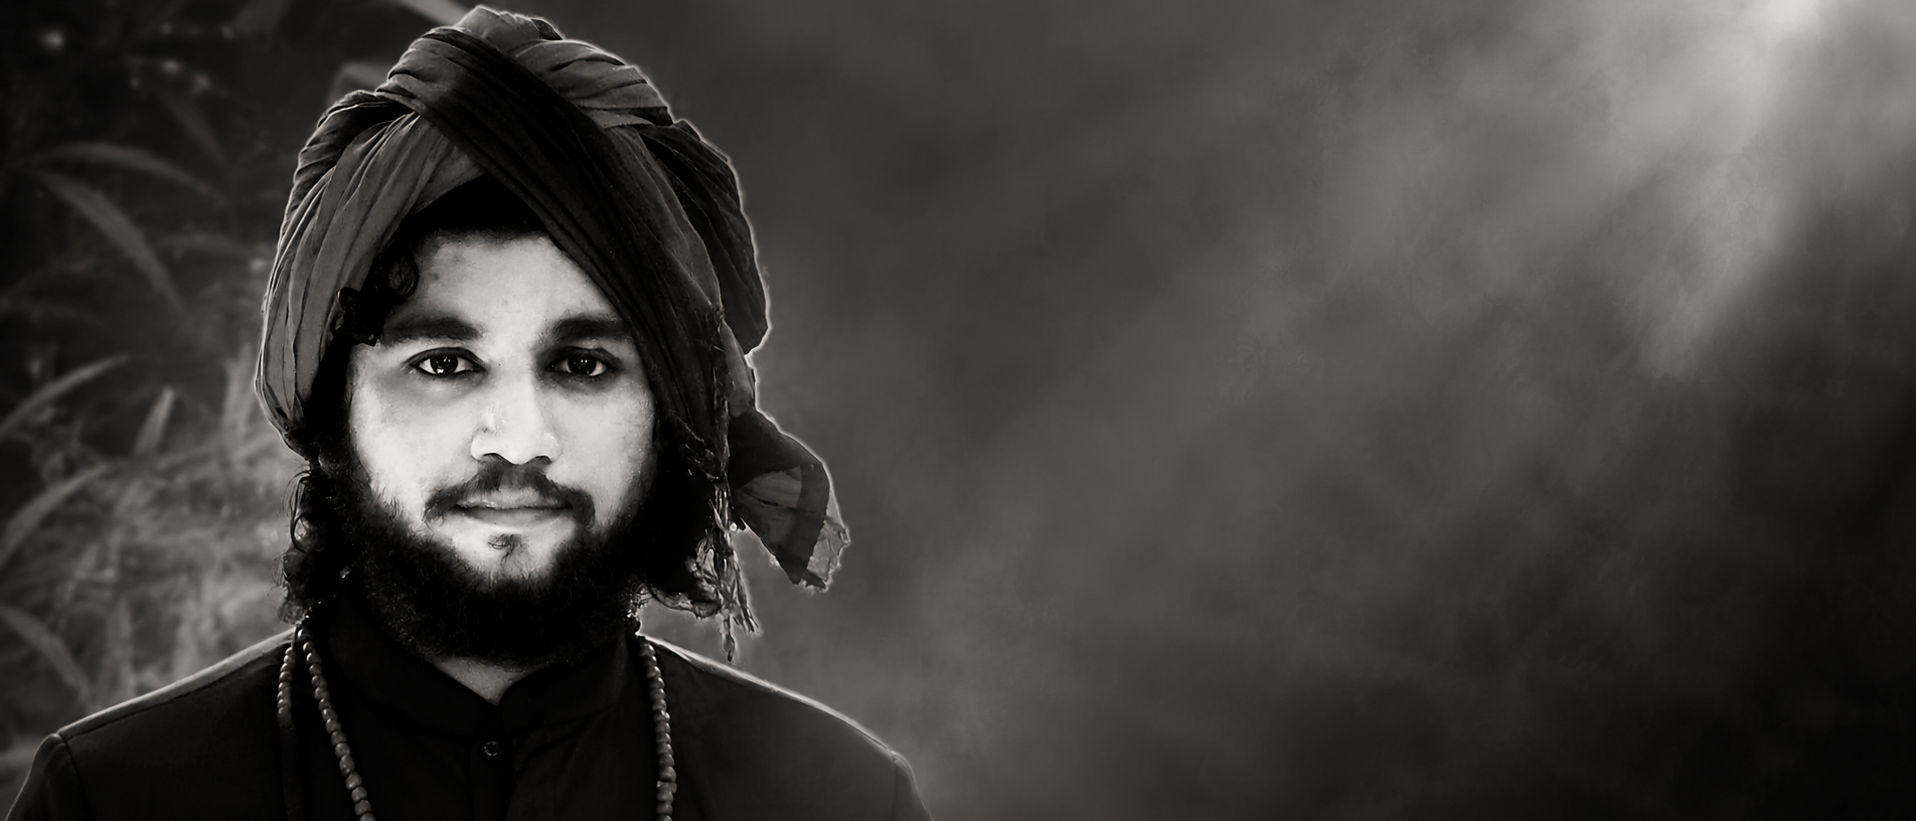
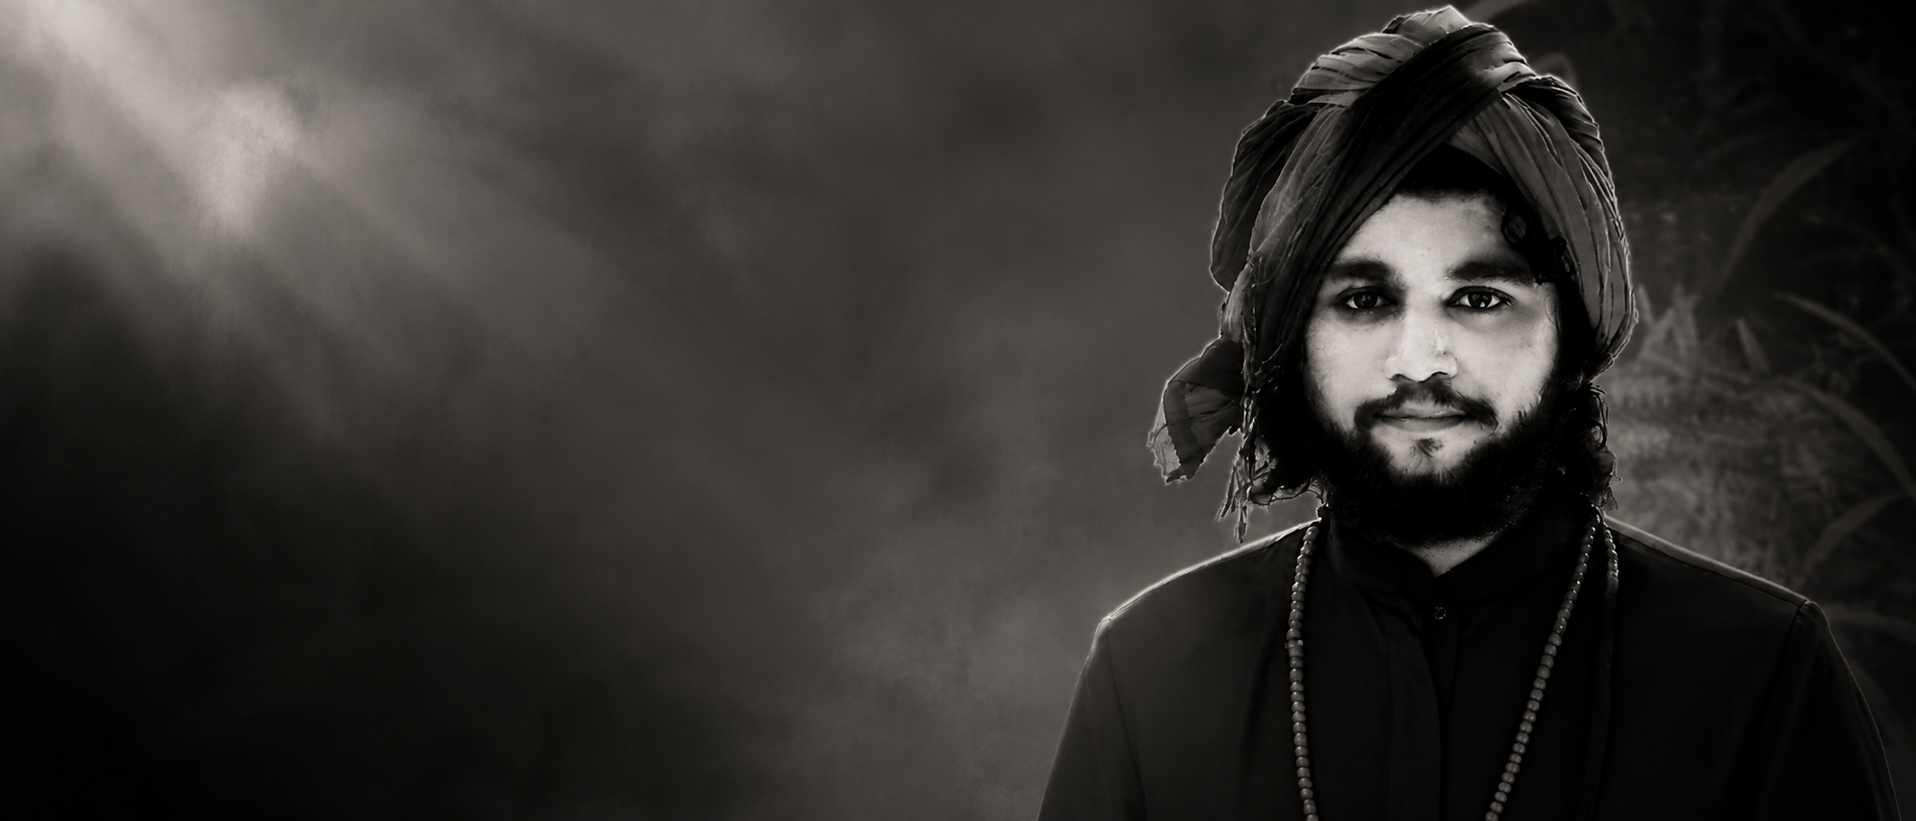
Improve mobile cover layout

diff --git a/styles.css b/styles.css
@@ -26,6 +26,7 @@ body {
   color: var(--ink);
   background: var(--paper);
   line-height: 1.6;
+  overflow-x: hidden;
 }
 
 img {
@@ -129,8 +130,8 @@ a {
   width: 100%;
   height: 100%;
   object-fit: cover;
-  object-position: 50% 25%;
-  opacity: 0.8;
+  object-position: 72% center;
+  opacity: 0.9;
 }
 
 .hero-content {
@@ -443,6 +444,23 @@ h3 {
 }
 
 @media (max-width: 900px) {
+  .hero-section {
+    min-height: 680px;
+  }
+
+  .hero-media::after {
+    background: linear-gradient(90deg, rgba(14, 59, 50, 0.96), rgba(14, 59, 50, 0.78) 45%, rgba(14, 59, 50, 0.35));
+  }
+
+  .hero-media img {
+    object-position: 68% center;
+  }
+
+  .hero-content {
+    width: min(560px, calc(100% - 36px));
+    padding: 84px 0 116px;
+  }
+
   .site-header {
     grid-template-columns: 1fr auto;
   }
@@ -475,8 +493,9 @@ h3 {
 
 @media (max-width: 560px) {
   .site-header {
-    gap: 12px;
+    gap: 10px;
     min-height: 64px;
+    padding-inline: 14px;
   }
 
   .brand span {
@@ -487,13 +506,36 @@ h3 {
     padding-inline: 12px;
   }
 
+  .hero-section {
+    min-height: 720px;
+  }
+
+  .hero-media::after {
+    background: linear-gradient(180deg, rgba(14, 59, 50, 0.38), rgba(14, 59, 50, 0.76) 42%, rgba(14, 59, 50, 0.98));
+  }
+
+  .hero-media img {
+    object-position: 70% center;
+  }
+
   .hero-content {
-    margin-left: 18px;
-    padding-top: 70px;
+    justify-content: flex-end;
+    width: calc(100% - 28px);
+    margin-left: 14px;
+    padding: 250px 0 56px;
   }
 
   h1 {
-    font-size: 3.75rem;
+    margin-bottom: 14px;
+    font-size: 3.25rem;
+  }
+
+  .hero-copy {
+    font-size: 1rem;
+  }
+
+  .hero-actions .button {
+    flex: 1 1 150px;
   }
 
   .site-footer {